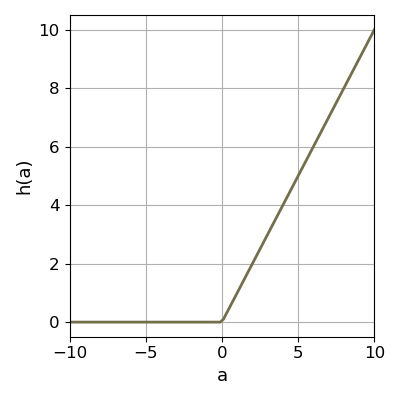
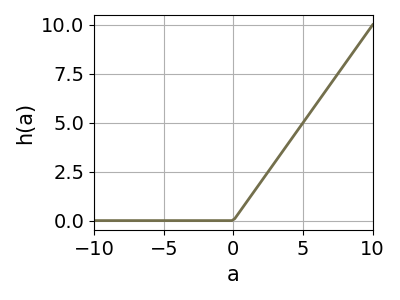
exp final I

Changed region(s): [[0.09, 0.03, 0.96, 0.9], [0.03, 0.33, 0.09, 0.51], [0.54, 0.9, 0.6, 0.96]]

diff --git a/not_relevant/metrics_revisit.py b/not_relevant/metrics_revisit.py
@@ -16,7 +16,7 @@ from audio_dataset import AudioDataset, SpeechCommandsDataset, MyRecordingsDatas
 from batch_archive import SpeechCommandsBatchArchive
 from test_bench import TestBench
 from legacy import legacy_adjustments_net_params
-from plots import plot_train_score, plot_confusion_matrix, plot_mfcc_only, plot_grid_images, plot_mfcc_anim, plot_val_acc_multiple
+from plots import plot_train_score, plot_train_loss, plot_confusion_matrix, plot_mfcc_only, plot_grid_images, plot_mfcc_anim, plot_val_acc_multiple
 
 
 class MetricsRevisit():
@@ -54,6 +54,9 @@ class MetricsRevisit():
       'mfcc': re.sub(r'([_])|(32-)', '', re.findall(r'_mfcc[0-9]+-[0-9]+_', self.model_path)[0]),
       'norm': re.sub('norm', '', re.findall(r'norm[01]', self.model_path)[0]),
       'feature_sel': re.sub(r'[_]', '', re.findall(r'_c[01]d[01]d[01]e[01]_', self.model_path)[0]),
+      'adv-it': '',
+      'adv-model': '',
+      'adv-train': '',
       }
 
     # check if adversarial pre training is in the training instance
@@ -105,7 +108,7 @@ class MetricsRevisit():
     self.test_bench.test_invariances(plot_path=plot_path, name_pre=name_pre, name_post=name_post, plot_prob=False)
 
 
-  def run_score(self, use_average=False):
+  def run_score(self, use_average=False, name_ext='_revisit'):
     """
     score plots
     """
@@ -114,7 +117,19 @@ class MetricsRevisit():
     train_score_dict = self.get_train_score_dict(average_acc=use_average)
 
     # plot train score
-    plot_train_score(train_score_dict, plot_path=self.model_path, name_ext='_revisit', show_plot=self.show_plot)
+    plot_train_score(train_score_dict, plot_path=self.model_path, name_ext=name_ext, show_plot=self.show_plot)
+
+
+  def run_train_loss(self, plot_path=None, name='train_loss'):
+    """
+    train loss
+    """
+
+    # train score dict
+    train_score_dict = self.get_train_score_dict()
+
+    # train loss
+    plot_train_loss(train_score_dict['train_loss'], train_score_dict['val_loss'], plot_path=plot_path, name=name, show_plot=False)
 
 
   def get_train_score_dict(self, average_acc=False):
@@ -126,7 +141,7 @@ class MetricsRevisit():
     metrics = np.load(self.metrics_file, allow_pickle=True)
 
     # see whats in data
-    print(metrics.files)
+    print("\nmetrics file: ", self.metrics_file)
 
     # get train score
     train_score_dict = metrics['train_score_dict'][()]
@@ -194,8 +209,6 @@ class MetricsRevisit():
     # create batches
     self.batch_archive.create_batches()
 
-    print(self.batch_archive.x_set_dict.keys())
-    #stop
     print("\n--Evaluation on Test Set:")
 
     # evaluation of model
@@ -279,6 +292,13 @@ class MetricsCollector():
     [[mr.run_test_bench(plot_path=plot_path, name_pre='exp_fs_mfcc_', name_post='_{}_{}'.format(model, mr.get_mfcc_labels())) for mr in self.metrics_revisit_dict[model]] for model in self.model_sel]
 
 
+  def run_special(self, plot_path):
+    """
+    special experimetns savings
+    """
+    pass
+
+
 
 class MetricsCollectorCepstral(MetricsCollector):
   """
@@ -295,7 +315,7 @@ class MetricsCollectorCepstral(MetricsCollector):
       # create acc dicts
       val_accs_dict = {mr.get_cepstral_labels(): mr.get_train_score_dict(average_acc=True)['val_acc'] for mr in self.metrics_revisit_dict[model]}
 
-      # plot all
+      # plot acc
       plot_val_acc_multiple(val_accs_dict, plot_path=plot_path, name='exp_fs_cepstral_acc_{}'.format(model), show_plot=True, close_plot=True)
 
 
@@ -315,7 +335,7 @@ class MetricsCollectorMFCC(MetricsCollector):
       # create acc dicts
       val_accs_dict = {mr.get_mfcc_labels(): mr.get_train_score_dict(average_acc=True)['val_acc'] for mr in self.metrics_revisit_dict[model]}
 
-      # plot all
+      # plot acc
       plot_val_acc_multiple(val_accs_dict, plot_path=plot_path, name='exp_fs_mfcc_acc_{}'.format(model), show_plot=True, close_plot=True)
 
 
@@ -342,7 +362,7 @@ class MetricsCollectorAdvLabel(MetricsCollector):
       # create acc dicts
       val_accs_dict = {mr.get_adv_labels(): mr.get_train_score_dict(average_acc=True)['val_acc'] for mr in self.metrics_revisit_dict[model] if mr.param_dict['adv-train'] == 'label'}
 
-      # plot all
+      # plot acc
       plot_val_acc_multiple(val_accs_dict, plot_path=plot_path, name='exp_adv_label_acc_{}'.format(model), show_plot=True, close_plot=True)
 
 
@@ -351,6 +371,54 @@ class MetricsCollectorAdvLabel(MetricsCollector):
     test bench for mfcc feature selection
     """
     [[mr.run_test_bench(plot_path=plot_path, name_pre='exp_adv_{}_'.format(mr.param_dict['adv-train']), name_post='_{}_{}'.format(model, mr.get_adv_labels())) for mr in self.metrics_revisit_dict[model] if mr.param_dict['adv-train'] == 'label'] for model in self.model_sel]
+
+
+
+class MetricsCollectorFinal(MetricsCollector):
+  """
+  collects metric revisiter
+  """
+
+  def __init__(self, cfg, model_path, model_sel, norm=False):
+
+    # Parent init
+    super().__init__(cfg, model_path, model_sel)
+
+    # arguments
+    self.norm = norm
+
+
+  def accuracy_revisit(self, plot_path):
+    """
+    accuracy plot
+    """
+
+    val_accs_dict = {}
+
+    # for norm zero
+    for model in self.model_sel:
+
+      # create acc dicts
+      val_accs_dict.update({'{}-norm{}{}'.format(model, int(self.norm), '' if not len(mr.param_dict['adv-train']) else ', adv-{}-{}-{}'.format(mr.param_dict['adv-train'], mr.param_dict['adv-model'], mr.param_dict['adv-it'])): mr.get_train_score_dict(average_acc=True)['val_acc'] for mr in self.metrics_revisit_dict[model] if mr.param_dict['norm'] == str(int(self.norm))})
+
+    # plot acc
+    plot_val_acc_multiple(val_accs_dict, plot_path=plot_path, name='exp_final_acc_norm{}'.format(int(self.norm)), show_plot=True, close_plot=True)
+
+
+  def test_bench_revisit(self, plot_path):
+    """
+    test bench for mfcc feature selection
+    """
+    [[mr.run_test_bench(plot_path=plot_path, name_pre='exp_adv_{}_'.format(mr.param_dict['adv-train']), name_post='_{}_{}'.format(model, mr.get_adv_labels())) for mr in self.metrics_revisit_dict[model] if mr.param_dict['adv-train'] == 'label'] for model in self.model_sel]
+
+
+  def run_special(self, plot_path):
+    """
+    special run
+    """
+
+    # run train score
+    [(print(mr.param_dict), mr.run_train_loss(plot_path=plot_path, name='exp_final_loss_norm{}_conv-trad'.format(mr.param_dict['norm']))) for mr in self.metrics_revisit_dict['conv-trad']]
 
 
 
@@ -386,19 +454,18 @@ if __name__ == '__main__':
   #metrics_revisit.run_all()
 
 
-  # cepstral
+  # metric collectors
   #metrics_collector = MetricsCollectorCepstral(cfg=cfg, model_path='../docu/best_models/ignore/exp_cepstral/', model_sel=['conv-fstride', 'conv-jim', 'conv-trad'])
-
-  # mfcc
   #metrics_collector = MetricsCollectorMFCC(cfg=cfg, model_path='../docu/best_models/ignore/exp_mfcc/', model_sel=['conv-jim'])
-
-  # adv
-  metrics_collector = MetricsCollectorAdvLabel(cfg=cfg, model_path='../docu/best_models/ignore/exp_adv/', model_sel=['conv-jim'])
+  #metrics_collector = MetricsCollectorAdvLabel(cfg=cfg, model_path='../docu/best_models/ignore/exp_adv/', model_sel=['conv-jim'])
+  metrics_collector = MetricsCollectorFinal(cfg=cfg, model_path='../docu/best_models/ignore/exp_final/', model_sel=['conv-fstride', 'conv-jim', 'conv-trad'], norm=False)
+  #metrics_collector = MetricsCollectorFinal(cfg=cfg, model_path='../docu/best_models/ignore/exp_final/', model_sel=['conv-fstride', 'conv-jim', 'conv-trad'], norm=True)
 
   # run all metrics
   #metrics_collector.run_all_metrics()
 
   # run revisits
-  #metrics_collector.accuracy_revisit(plot_path=plot_path)
-  metrics_collector.test_bench_revisit(plot_path=plot_path)
+  metrics_collector.accuracy_revisit(plot_path=plot_path)
+  #metrics_collector.test_bench_revisit(plot_path=plot_path)
+  #metrics_collector.run_special(plot_path=plot_path)
 

diff --git a/plots.py b/plots.py
@@ -34,6 +34,7 @@ def get_figsize(context='none'):
   elif context == 'square_mini': return (3, 3)
 
   # special
+  elif context == 'activation': return (4, 3)
   elif context == 'score': return (8, 5)
   elif context == 'mel': return (8, 5)
   elif context == 'half': return (8, 4)
@@ -719,7 +720,10 @@ def plot_wavenet_train_loss(train_score_dict, cmap=None, plot_path=None, name='s
   ax.plot(train_score_dict['loss_y'], label='class loss')
 
   # layout
-  plt.ylabel("loss"), plt.xlabel("iterations"), plt.legend(), plt.grid()
+  plt.ylabel("loss"), plt.xlabel("iterations"), plt.legend(fontsize=get_fontsize('axis_label')), plt.grid()
+
+  # tick size
+  ax.tick_params(axis='both', which='major', labelsize=get_fontsize('axis_tick_major', add_size=0)), ax.tick_params(axis='both', which='minor', labelsize=get_fontsize('axis_tick_minor', add_size=0))
 
   # tight plot
   plt.tight_layout()
@@ -754,7 +758,10 @@ def plot_adv_train_loss(train_score_dict, cmap=None, plot_path=None, name='score
   ax.plot(train_score_dict['d_loss_real'], label='d_loss_real')
 
   # layout
-  plt.ylabel("loss"), plt.xlabel("iterations"), plt.legend(), plt.grid()
+  plt.ylabel("loss", fontsize=get_fontsize('axis_label')), plt.xlabel("iterations", fontsize=get_fontsize('axis_label')), plt.legend(fontsize=get_fontsize('axis_label')), plt.grid()
+
+  # tick size
+  ax.tick_params(axis='both', which='major', labelsize=get_fontsize('axis_tick_major', add_size=0)), ax.tick_params(axis='both', which='minor', labelsize=get_fontsize('axis_tick_minor', add_size=0))
 
   # tight plot
   plt.tight_layout()
@@ -787,7 +794,10 @@ def plot_hyb_train_loss(train_score_dict, cmap=None, plot_path=None, name='score
   ax.plot(train_score_dict['val_loss'] / np.linalg.norm(train_score_dict['val_loss'], ord=np.infty), label='val loss')
 
   # layout
-  plt.ylabel("loss"), plt.xlabel("iterations"), plt.legend(), plt.grid()
+  plt.ylabel("loss", fontsize=get_fontsize('axis_label')), plt.xlabel("iterations", fontsize=get_fontsize('axis_label')), plt.legend(fontsize=get_fontsize('axis_label')), plt.grid()
+
+  # tick size
+  ax.tick_params(axis='both', which='major', labelsize=get_fontsize('axis_tick_major', add_size=0)), ax.tick_params(axis='both', which='minor', labelsize=get_fontsize('axis_tick_minor', add_size=0))
 
   # tight plot
   plt.tight_layout()
@@ -821,7 +831,10 @@ def plot_train_loss(train_loss, val_loss, cmap=None, plot_path=None, name='score
   ax.plot(train_loss, label='train loss'), ax.plot(val_loss, label='val loss')
 
   # layout
-  plt.ylabel("normalized loss"), plt.xlabel("iterations"), plt.legend(), plt.grid()
+  plt.ylabel("normalized loss", fontsize=get_fontsize('axis_label')), plt.xlabel("iterations", fontsize=get_fontsize('axis_label')), plt.legend(fontsize=get_fontsize('axis_label')), plt.grid()
+
+  # tick size
+  ax.tick_params(axis='both', which='major', labelsize=get_fontsize('axis_tick_major', add_size=0)), ax.tick_params(axis='both', which='minor', labelsize=get_fontsize('axis_tick_minor', add_size=0))
 
   # tight plot
   plt.tight_layout()
@@ -856,7 +869,10 @@ def plot_val_acc(val_acc, cmap=None, plot_path=None, name='score_val', show_plot
   ax.yaxis.set_major_locator(MultipleLocator(10))
 
   # layout
-  plt.ylabel("accuracy"), plt.xlabel("iterations"), plt.ylim(0, 100), plt.legend(), plt.grid()
+  plt.ylabel("accuracy", fontsize=get_fontsize('axis_label')), plt.xlabel("iterations", fontsize=get_fontsize('axis_label')), plt.ylim(0, 100), plt.legend(fontsize=get_fontsize('axis_label')), plt.grid()
+
+  # tick size
+  ax.tick_params(axis='both', which='major', labelsize=get_fontsize('axis_tick_major', add_size=0)), ax.tick_params(axis='both', which='minor', labelsize=get_fontsize('axis_tick_minor', add_size=0))
 
   # tight plot
   plt.tight_layout()
@@ -1306,7 +1322,7 @@ def plot_activation_function(x, y, cmap=None, plot_path=None, name='mel', show_p
   if cmap is None: cmap = get_colormap_from_context(context='mel')
 
   # plot mel bands
-  fig = plt.figure(figsize=get_figsize(context='square_small'))
+  fig = plt.figure(figsize=get_figsize(context='activation'))
 
   # create axis
   ax = plt.axes()
@@ -1315,14 +1331,14 @@ def plot_activation_function(x, y, cmap=None, plot_path=None, name='mel', show_p
   # plot
   ax.plot(x, y, lw=2)
 
-  # tick size
-  ax.tick_params(axis='both', which='major', labelsize=get_fontsize('axis_tick_major', add_size=2)), ax.tick_params(axis='both', which='minor', labelsize=get_fontsize('axis_tick_minor', add_size=2))
-
   # lim
   ax.set_xlim([np.min(x), np.max(x)])
 
   # layout
   plt.ylabel('h(a)', fontsize=get_fontsize('axis_label', add_size=2)), plt.xlabel('a', fontsize=get_fontsize('axis_label', add_size=2)), plt.grid()
+
+  # tick size
+  ax.tick_params(axis='both', which='major', labelsize=get_fontsize('axis_tick_major', add_size=2)), ax.tick_params(axis='both', which='minor', labelsize=get_fontsize('axis_tick_minor', add_size=2))
 
   # tight plot
   plt.tight_layout()

diff --git a/docu/thesis/5_exp/exp_final.tex b/docu/thesis/5_exp/exp_final.tex
@@ -3,9 +3,29 @@
 
 \section{Experiments on whole dataset}\label{sec:exp_final}
 The final experiments were performed on the whole dataset with 3500 examples per labels and are therefore used for comparison to the benchmark models shown in \rsec{prev_kws_benchmark}.
-All Convolutional Neural Network (CNN) architectures were evaluated with 12 MFCC coefficients and frame-based normalization.
-A single run with 2000 epochs was performed for all experiments.
-The evaluation on the adversarial pre-training as described in \rsec{exp_adv} was done only for the \texttt{conv-jim} model in a separate run.
-The results of the experiments are shown in \rtab{exp_final_l12}
+All Convolutional Neural Network (CNN) architectures were evaluated with 12 MFCC coefficients and the application of frame-based normalization.
+A single run with 2000 epochs was performed for all experiments, to save computational effort.
+The evaluation on the adversarial pre-training as described in \rsec{exp_adv} was done for the \texttt{conv-jim} model in a separate run.
+The results of the experiments are shown in \rtab{exp_final_l12}.
 \input{./5_exp/tables/tab_exp_final_l12.tex}
-From the results it is observed that...
+Note that there might be some overfitting effects happening, especially showing up in the not normalized training of the \texttt{conv-trad} model in \rtab{exp_final_loss_conv-trad}.
+\begin{figure}[!ht]
+  \centering
+  \subfigure[norm0]{\includegraphics[width=0.45\textwidth]{./5_exp/figs/exp_final_loss_norm0_conv-trad}}
+  \subfigure[norm1]{\includegraphics[width=0.45\textwidth]{./5_exp/figs/exp_final_loss_norm1_conv-trad}}
+  \caption{Training loss of the \texttt{conv-trad} model showing overfitting effects on the whole dataset.}
+  \label{fig:exp_final_loss_conv-trad}
+\end{figure}
+\FloatBarrier
+\noindent
+It is therefore useful to use some kind of \emph{early-stopping} technique to obtain the model parameters at the best training epoch evaluated on the validation set.
+The accuracy performance on the validation set of all models during training is shown in \rtab{exp_final_acc}.
+\begin{figure}[!ht]
+  \centering
+  \subfigure[norm0]{\includegraphics[width=0.45\textwidth]{./5_exp/figs/exp_final_acc_norm0}}
+  \subfigure[norm1]{\includegraphics[width=0.45\textwidth]{./5_exp/figs/exp_final_acc_norm1}}
+  \caption{Training accuracies on the whole dataset.}
+  \label{fig:exp_final_acc}
+\end{figure}
+\FloatBarrier
+\noindent

diff --git a/docu/thesis/3_signal/signal_onset.tex b/docu/thesis/3_signal/signal_onset.tex
@@ -39,7 +39,7 @@ Since the Mel Frequency Cepstral Coefficients (MFCC) are extracted to obtain fea
 The first cepstral coefficient $\bm{u}_0 \in \R^M$ of the MFCCs is actually an energy value, that is the sum of all equidistant mel filter bands.
 The equivalent of \req{e_win} for MFCCs in the cepstral and frame space is therefore:
 \begin{equation}
-  e[m] = \sum_{i=0}^{N-1} \bm{u}_0[m + i]
+  e[m] = \sum_{i=0}^{N-1} u_0[m + i]
 \end{equation}
 where $m$ and $N$ are in the frame space instead of the sample space.
 A conversion from sample to frame space can simply be done by dividing the sample variable with the hop size $h$ in samples and rounding it to an integer number.

diff --git a/not_relevant/thesis_visuals.py b/not_relevant/thesis_visuals.py
@@ -251,7 +251,7 @@ def training_logs(cfg):
 
 def nn_theory():
   """
-  neural network theury
+  neural network theory
   """
 
   # plot path
@@ -308,7 +308,7 @@ if __name__ == '__main__':
   #feature_selection_tables(overwrite=True)
 
   # audio set wavs
-  audio_set_wavs(cfg, statistics_plot=True, wav_grid_plot=False, label_table_plot=False)
+  #audio_set_wavs(cfg, statistics_plot=True, wav_grid_plot=False, label_table_plot=False)
 
   # batch archive
   #batch_archive_grid_examples(cfg, show_plot=True)
@@ -317,7 +317,7 @@ if __name__ == '__main__':
   #training_logs(cfg)
 
   # theory
-  #nn_theory()
+  nn_theory()
 
   # noise wavs
   #noise_wavs_info(cfg)
